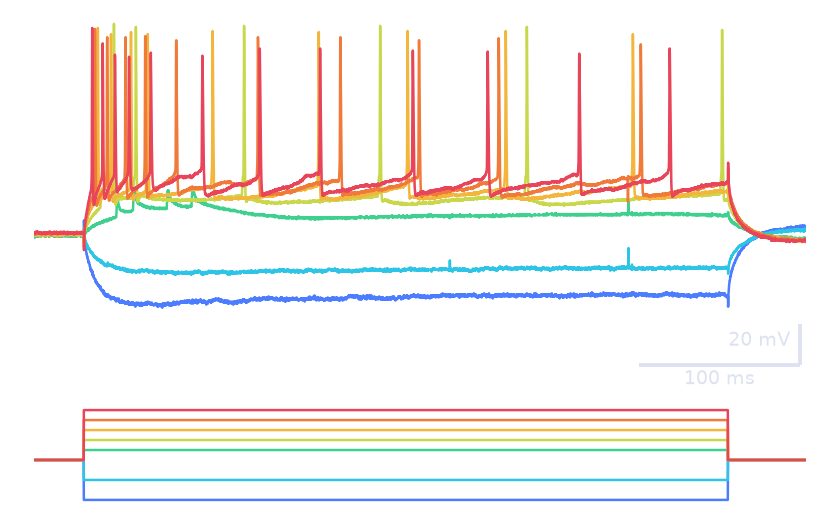
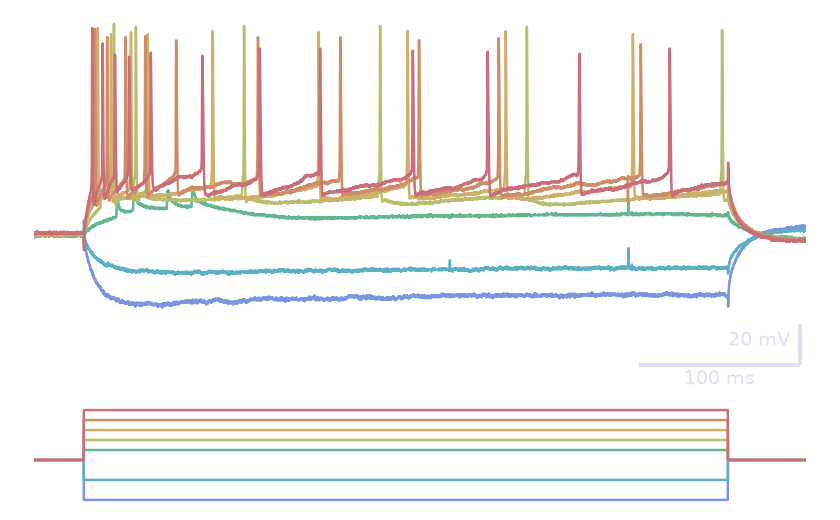
Electrophysiology figures: softer colours

Changed region(s): [[0.031, 0.0615, 0.9595, 0.6154], [0.031, 0.7692, 0.9595, 0.9846]]

diff --git a/backend/tools/draw_trace_figures.py b/backend/tools/draw_trace_figures.py
@@ -18,8 +18,8 @@ matplotlib.use("Agg")
 import matplotlib.pyplot as plt
 
 INK = "#dde1f0"
-# clearly distinct colours, from blue (most negative step) to red (strongest step)
-GRADIENT = ["#4c7dff", "#2ec4e6", "#3fcf8e", "#c8d84a", "#f2b63c", "#f07a3a", "#e8445a"]
+# distinct, softened colours, from blue (most negative step) to red (strongest step)
+GRADIENT = ["#7a96de", "#5bb1c4", "#63b690", "#b6bf6e", "#d0af6a", "#ce8c67", "#ca6e7a"]
 AMPS = [-0.8, -0.4, 0.2, 0.4, 0.6, 0.8, 1.0]
 
 def spikes(y):
